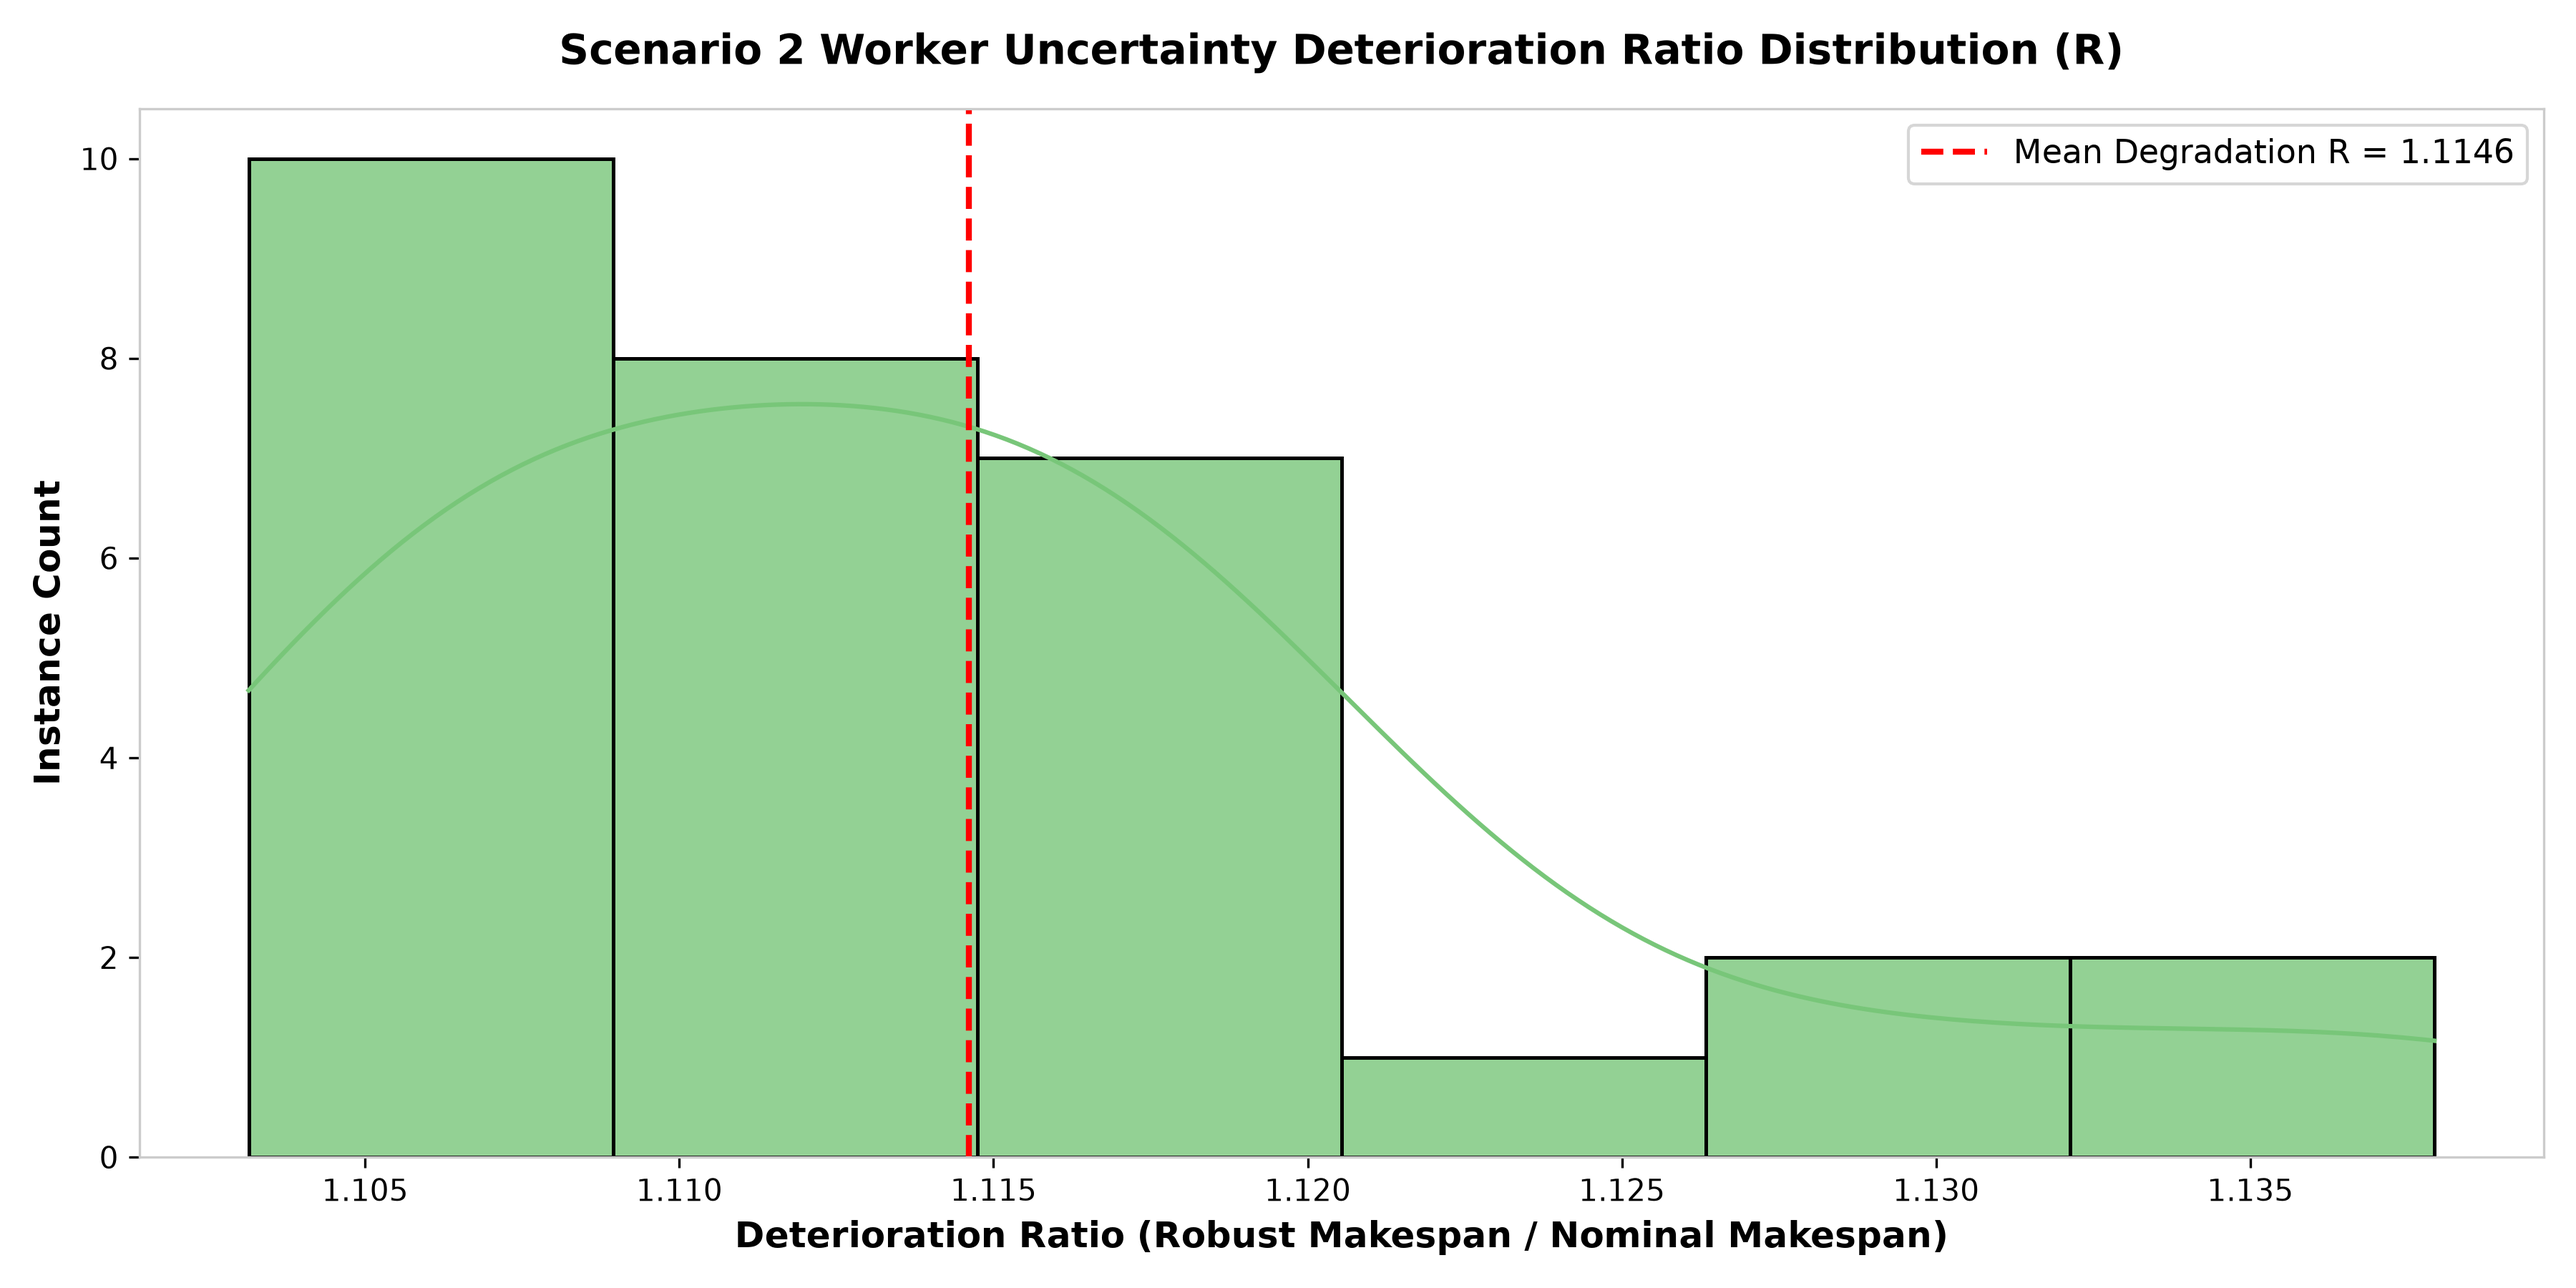
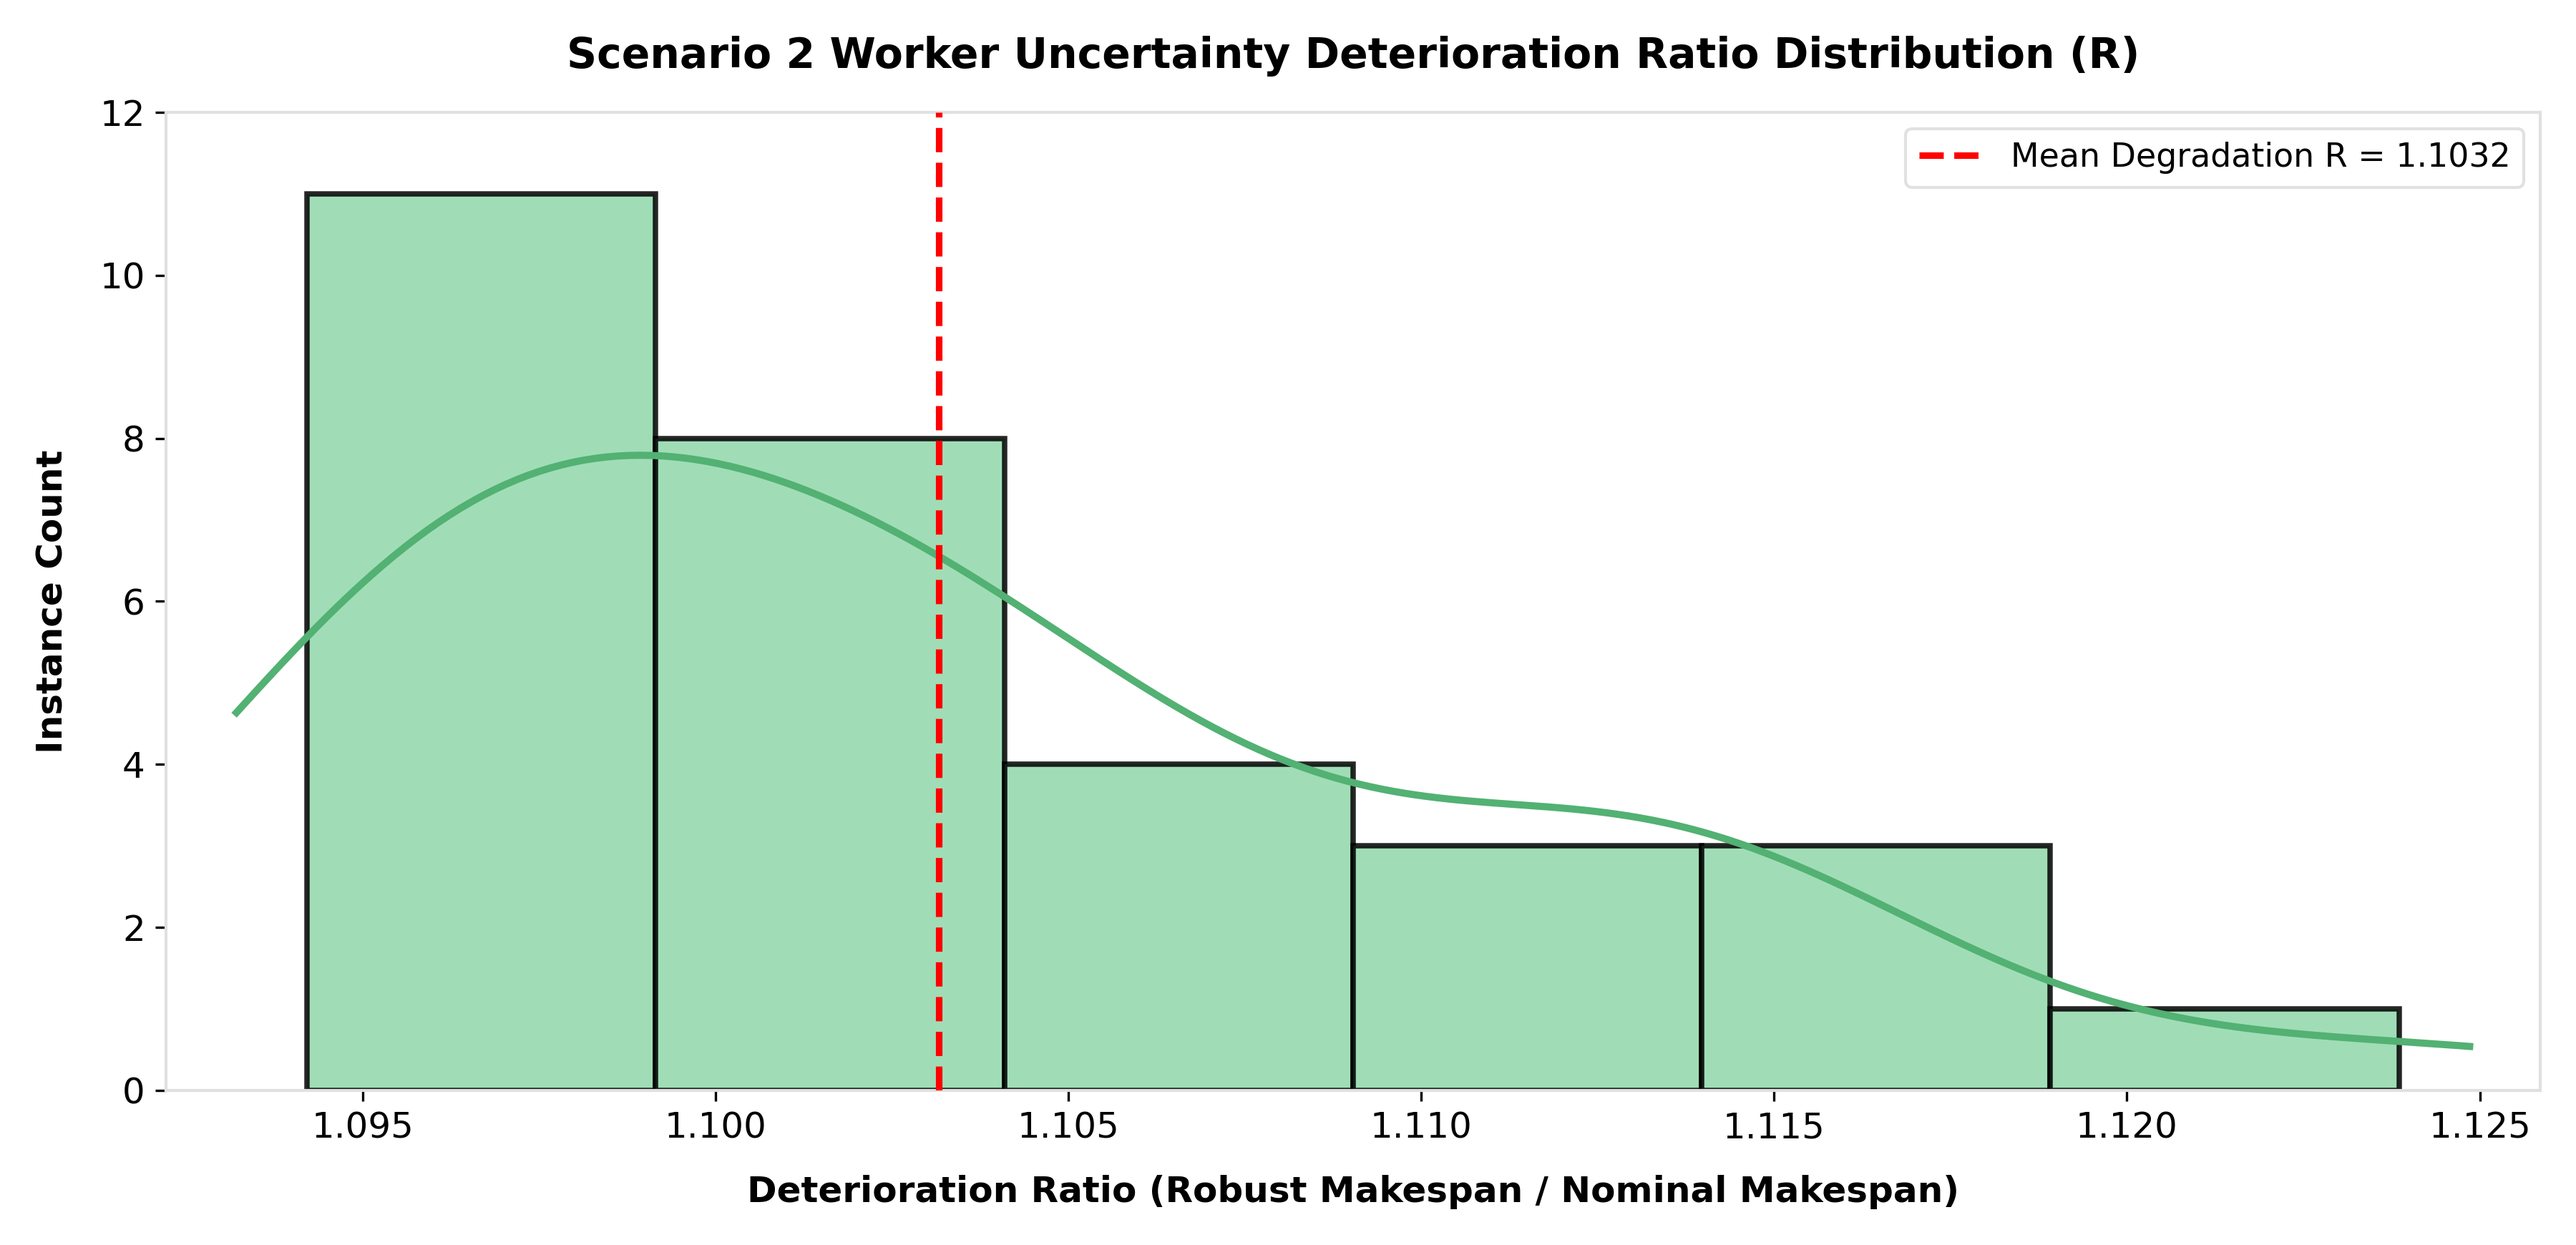
update graphs & readme data

diff --git a/README.md b/README.md
@@ -87,70 +87,61 @@ The proposed `Proposed_FPC_GA` solver was evaluated across 30 standard FJSSP-WU 
 
 ### Key Performance Highlights
 
-**Highest Win Rate:** `Proposed_FPC_GA` achieved the best mean makespan on 17 out of 30 benchmark instances (56.7%), outperforming `Hybrid_GA` (13 wins), `Standard_GA` (0 wins), and `PSO` (0 wins).
+* **Highest Win Rate:** `Proposed_FPC_GA` achieved the best mean makespan on **16 out of 30** benchmark instances (**53.3%**), outperforming `Hybrid_GA` (13 wins), `Standard_GA` (1 win), and `PSO` (0 wins)[cite: 1].
+* **Improved Execution Efficiency:** `Proposed_FPC_GA` executes in **0.41s** average execution time, making it **$46.32\times$ faster** than `Hybrid_GA` (18.99s) while delivering superior overall solution quality[cite: 1, 9].
+* **Function Evaluation Efficiency:** Requires an average of **1,374.94** Function Evaluations (FEVs) per run—a **$97.8\%$ reduction** compared to `Hybrid_GA` (63,773.67 FEVs) and a **$10.1\%$ reduction** compared to `PSO` (1,529.66 FEVs)[cite: 8].
+* **Robustness Under Worker Disruption:** Under Scenario 2 stochastic worker uncertainty, the framework maintains an average degradation ratio, $R = \frac{C_{\max}^{\text{robust}}}{C_{\max}^{\text{nominal}}}$, of **1.1032** (**$\sim 10.32\%$ average degradation**) across all 30 test instances[cite: 5, 7].
 
-**Improved Execution Efficiency:** `Proposed_FPC_GA` runs in 1.57s average execution time, making it $2.02\times$ faster than `Standard_GA` (3.17s), $2.12\times$ faster than `Hybrid_GA (3.32s)`, and $5.64\times$ faster than `PSO` (8.86s).
+---
 
-**Function Evaluation Reduction:** Requires an average of only 514.2 Function Evaluations (FEVs) per run—a $64\%\text{--}68\%$ reduction compared to `Standard_GA` (1430.0 FEVs), `Hybrid_GA` (1616.7 FEVs), and `PSO` (1530.0 FEVs).
-
-**Robustness Under Worker Disruption:** Under Scenario 2 stochastic worker uncertainty, the framework maintains an average degradation ratio, $R = \frac{C_{\max}^{\text{robust}}}{C_{\max}^{\text{nominal}}}$,  of 1.1146 ($\sim 11.46\%$ average degradation).
 ### Graphs & Tables
 
-<details>
-<summary><b>Graph 1: Mean Runtime For 30 Instances</b></summary>
+### Graph 1: Mean Runtime For 30 Instances
 
 ![mean runtime over 30 instanecs](images/mean_runtime.png)
-</details>
-<details>
-<summary><b>Graph 2: Uncertainty Deterioration Ratio</b></summary>
+
+### Graph 2: Uncertainty Deterioration Ratio</b></summary>
 
 ![deterioration_graph](images/deterioration_ration.png)
-</details>
 
-<details>
-Averaged performance statistics across all 30 benchmark instances (30 independent runs per instance)
-<summary><b>Table 1: Overall Performance Summary</b></summary>
+### Table 1: Overall Performance Summary
 
-| Algorithm | Mean Makespan (C<sub>max</sub>) | Median Makespan | Std Dev | Wins (Mean) | Wins (Best) | Mean Rank | Mean FEV | Mean Runtime (s) |
+Averaged performance statistics across all 30 benchmark instances (30 independent runs per instance)[cite: 1, 8]:
+
+| Algorithm | Mean Makespan ($C_{\max}$) | Median Makespan | Std Dev | Wins (Mean) | Wins (Best) | Mean Rank | Mean FEV | Mean Runtime (s) |
 | :--- | :---: | :---: | :---: | :---: | :---: | :---: | :---: | :---: |
-| `Proposed_FPC_GA` | 1898.00 | 1209.00 | 2072.20 | 17 | 15 | 1.73 | 514.20 | 1.57 |
-| `Hybrid_GA` | 1903.30 | 1236.00 | 2050.30 | 13 | 15 | 1.57 | 1616.70 | 3.32 |
-| `Standard_GA` | 1918.60 | 1265.00 | 2070.00 | 0 | 0 | 2.70 | 1430.00 | 3.17 |
-| `PSO` | 2281.80 | 1448.50 | 2468.50 | 0 | 0 | 4.00 | 1530.00 | 8.86 |
+| `Proposed_FPC_GA` | **3,214.30** | **1,799.50** | **3,490.30** | **16** | **16** | **1.50** | 1,374.94 | 0.41 |
+| `Hybrid_GA` | 3,250.60 | 1,809.00 | 3,566.10 | 13 | 14 | 1.60 | 63,773.67 | 18.99 |
+| `Standard_GA` | 3,465.10 | 1,907.00 | 3,780.30 | 1 | 0 | 2.90 | **727.51** | **0.18** |
+| `PSO` | 4,187.30 | 2,462.50 | 4,507.20 | 0 | 0 | 4.00 | 1,529.66 | 0.39 |
 
-</details>
-<details>
-Breakdown of mean makespan and improvement percentage of Proposed_FPC_GA over Standard_GA across 10 benchmark families.
-<summary><b>Table 2: Algorithm Performance Comparison</b></summary>
 
+#### Table 2: Algorithm Performance Comparison
+
+Breakdown of mean makespan and improvement percentage of `Proposed_FPC_GA` over `Standard_GA` across 10 benchmark families[cite: 8]:
 
 | Family Name | Instances | Proposed_FPC_GA | Hybrid_GA | Standard_GA | PSO | Best Algorithm | FPC-GA vs Standard GA (%) |
 | :--- | :---: | :---: | :---: | :---: | :---: | :--- | :---: |
-| Kacem | 2 | 19.48 | 34.73 | 34.88 | 47.02 | `Proposed_FPC_GA` | +44.15% |
-| Behnke-Geiger | 3 | 255.46 | 306.89 | 308.43 | 344.30 | `Proposed_FPC_GA` | +17.18% |
-| Fattahi | 2 | 1041.12 | 1143.65 | 1153.12 | 1372.57 | `Proposed_FPC_GA` | +9.71% |
-| Brandimarte | 3 | 655.41 | 690.59 | 694.44 | 815.84 | `Proposed_FPC_GA` | +5.62% |
-| Chambers-Barnes | 1 | 1405.47 | 1452.67 | 1464.50 | 1698.67 | `Proposed_FPC_GA` | +4.03% |
-| Hurink edata | 2 | 362.17 | 365.42 | 368.22 | 434.88 | `Proposed_FPC_GA` | +1.64% |
-| Hurink rdata | 3 | 4029.60 | 4018.81 | 4054.70 | 4870.80 | `Hybrid_GA` | +0.62% |
-| Hurink vdata | 3 | 1469.11 | 1460.04 | 1473.87 | 1811.57 | `Hybrid_GA` | +0.32% |
-| Hurink sdata | 7 | 2325.38 | 2299.05 | 2324.10 | 2733.09 | `Hybrid_GA` | -0.06% |
-| DPpaulli | 4 | 4295.96 | 4259.28 | 4279.47 | 5096.63 | `Hybrid_GA` | -0.39% |
+| Kacem | 2 | 19.73 | 21.72 | 21.80 | 35.40 | `Proposed_FPC_GA` | +9.48% |
+| Behnke-Geiger | 3 | 314.66 | 361.79 | 384.56 | 523.00 | `Proposed_FPC_GA` | +18.18% |
+| Hurink edata | 2 | 494.95 | 479.42 | 505.98 | 600.75 | `Hybrid_GA` | +2.18% |
+| Brandimarte | 3 | 1,041.54 | 1,008.50 | 1,097.29 | 1,449.11 | `Hybrid_GA` | +5.08% |
+| Fattahi | 2 | 1,318.58 | 1,300.95 | 1,353.47 | 1,751.33 | `Hybrid_GA` | +2.58% |
+| Hurink vdata | 3 | 2,130.18 | 2,218.41 | 2,322.99 | 3,025.53 | `Proposed_FPC_GA` | +8.30% |
+| Chambers-Barnes | 1 | 2,607.87 | 2,603.17 | 2,827.83 | 3,289.97 | `Hybrid_GA` | +7.78% |
+| Hurink sdata | 7 | 3,906.20 | 3,912.60 | 4,189.43 | 4,914.36 | `Proposed_FPC_GA` | +6.76% |
+| Hurink rdata | 3 | 5,564.08 | 5,676.34 | 6,129.13 | 7,503.01 | `Proposed_FPC_GA` | +9.22% |
+| DPpaulli | 4 | 8,914.93 | 9,031.97 | 9,558.74 | 11,412.71 | `Proposed_FPC_GA` | +6.74% |
 
-</details>
+#### Table 3: Statistical Comparison
 
-<details>
-Pairwise Statistical Tests & Effect Sizes Pairwise comparisons using the Wilcoxon signed-rank test and Vargha-Delaney $A_{12}$ effect size against Proposed_FPC_GA ($\alpha = 0.05$)
-<summary><b>Table 3: Statistical Comparison</b></summary>
+Pairwise comparisons using the Wilcoxon signed-rank test and Vargha-Delaney $A_{12}$ effect size against `Proposed_FPC_GA` ($\alpha = 0.05$)[cite: 2]:
 
-| Baseline Algorithm | Proposed Mean | Baseline Mean | Per-Instance W/T/L | Wilcoxon W Stat | Raw p-value  | Bonferroni p-value | Vargha-Delaney A<sub>12</sub> | Effect Size |
+| Baseline Algorithm | Proposed Mean | Baseline Mean | Per-Instance W/T/L | Wilcoxon W Stat | Raw p-value | Bonferroni p-value | Vargha-Delaney A<sub>12</sub> | Effect Size |
 | :---- | :----: | :----: | :----: | :----: | :----: | :----: | :----: | :----: |
-| `PSO` | 1898.00 | 2281.80 | 30/0/0 | 0.00 | < 0.0001 | < 0.0001 | 0.99 | Large |
-| `Standard_GA` | 1898.00 | 1918.60 | 12/12/6 | 141.00 | 0.06 | 0.18 | 0.65 | Medium |
-| `Hybrid_GA` | 1898.00 | 1903.30 | 12/11/7 | 193.00 | 0.43 | 1.00 | 0.61 | — |
-
-</details>
-
+| `PSO` | 3,214.30 | 4,187.30 | 30/0/0 | 0.00 | < 0.0001 | < 0.0001 | 0.985 | Large |
+| `Standard_GA` | 3,214.30 | 3,465.10 | 22/7/1 | 1.00 | < 0.0001 | < 0.0001 | 0.759 | Large |
+| `Hybrid_GA` | 3,214.30 | 3,250.60 | 10/16/4 | 187.00 | 0.3599 | 1.0000 | 0.552 | Negligible |
 ---
 ## Repository Layout
 <details>
